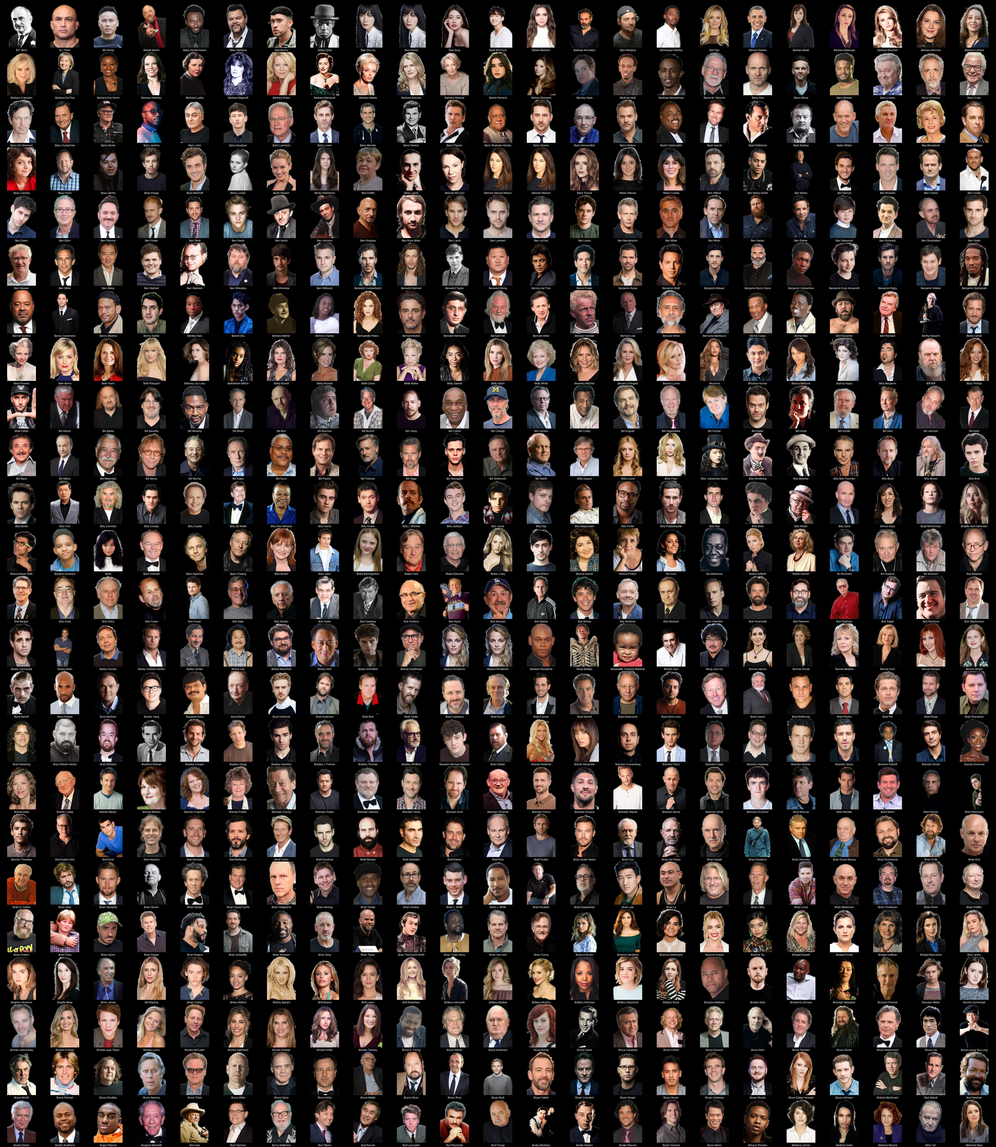
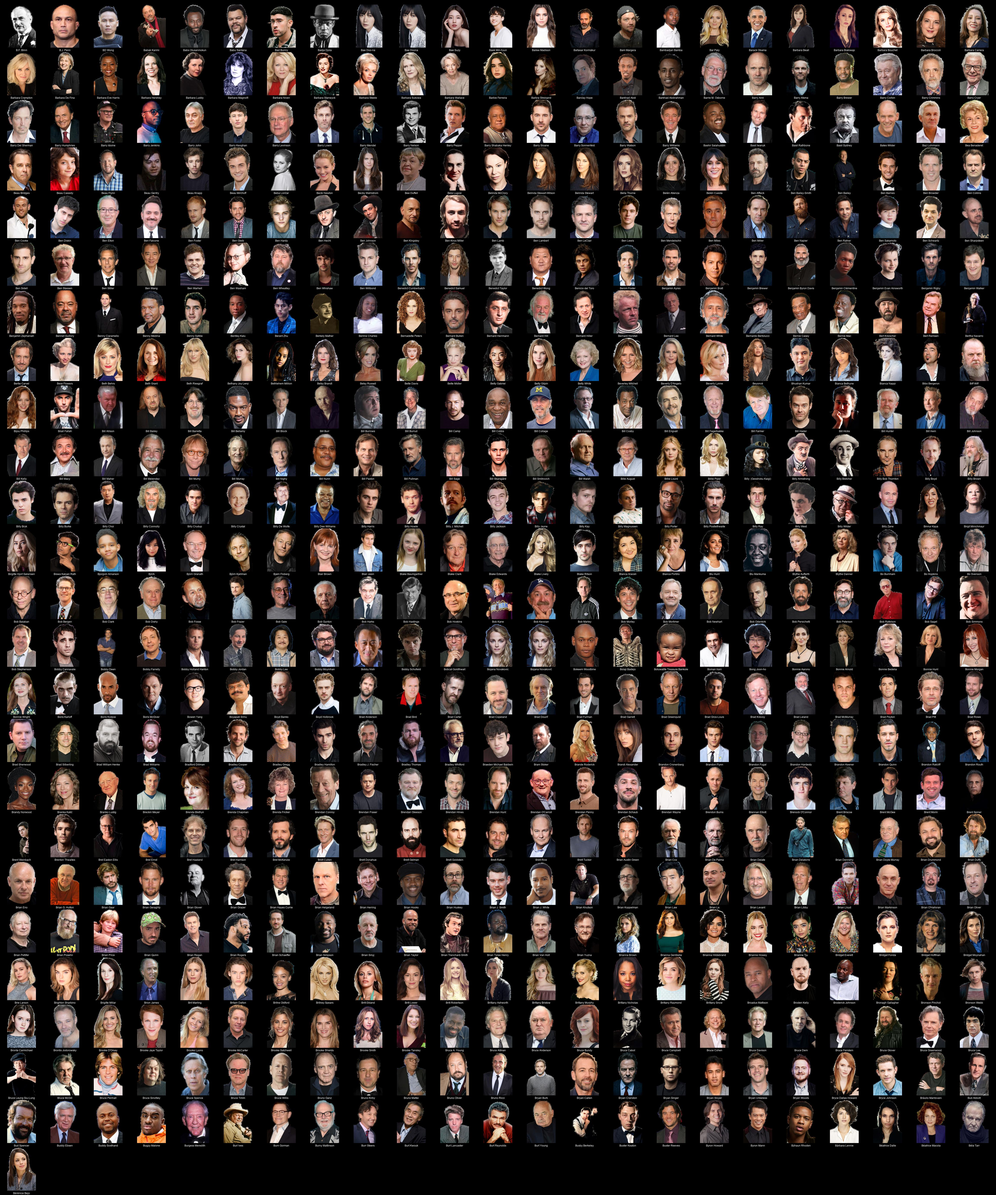
june peeps

diff --git a/M/README.md b/M/README.md
@@ -1,4 +1,4 @@
-# Kometa People Images - Transparent (transparent) - M (1034 Images)
+# Kometa People Images - Transparent (transparent) - M (1037 Images)
 ![Grid](grid.jpg)
 
 * [M'laah Kaur Singh](https://raw.githubusercontent.com/Kometa-Team/People-Images-transparent/master/M/Images/M%27laah%20Kaur%20Singh.png)
@@ -177,6 +177,7 @@
 * [Maria Howell](https://raw.githubusercontent.com/Kometa-Team/People-Images-transparent/master/M/Images/Maria%20Howell.png)
 * [Maria Thayer](https://raw.githubusercontent.com/Kometa-Team/People-Images-transparent/master/M/Images/Maria%20Thayer.png)
 * [Mariah Carey](https://raw.githubusercontent.com/Kometa-Team/People-Images-transparent/master/M/Images/Mariah%20Carey.png)
+* [Marian Dora](https://raw.githubusercontent.com/Kometa-Team/People-Images-transparent/master/M/Images/Marian%20Dora.png)
 * [Marian Lorencik](https://raw.githubusercontent.com/Kometa-Team/People-Images-transparent/master/M/Images/Marian%20Lorencik.png)
 * [Mariana Mazza](https://raw.githubusercontent.com/Kometa-Team/People-Images-transparent/master/M/Images/Mariana%20Mazza.png)
 * [Mariangela Giordano](https://raw.githubusercontent.com/Kometa-Team/People-Images-transparent/master/M/Images/Mariangela%20Giordano.png)
@@ -494,6 +495,7 @@
 * [Maude Apatow](https://raw.githubusercontent.com/Kometa-Team/People-Images-transparent/master/M/Images/Maude%20Apatow.png)
 * [Maulik Pancholy](https://raw.githubusercontent.com/Kometa-Team/People-Images-transparent/master/M/Images/Maulik%20Pancholy.png)
 * [Maura Tierney](https://raw.githubusercontent.com/Kometa-Team/People-Images-transparent/master/M/Images/Maura%20Tierney.png)
+* [Maureen McCormick](https://raw.githubusercontent.com/Kometa-Team/People-Images-transparent/master/M/Images/Maureen%20McCormick.png)
 * [Maureen Van Zandt](https://raw.githubusercontent.com/Kometa-Team/People-Images-transparent/master/M/Images/Maureen%20Van%20Zandt.png)
 * [Maurice Compte](https://raw.githubusercontent.com/Kometa-Team/People-Images-transparent/master/M/Images/Maurice%20Compte.png)
 * [Maurice Jarre](https://raw.githubusercontent.com/Kometa-Team/People-Images-transparent/master/M/Images/Maurice%20Jarre.png)
@@ -886,6 +888,7 @@
 * [Mike Kellin](https://raw.githubusercontent.com/Kometa-Team/People-Images-transparent/master/M/Images/Mike%20Kellin.png)
 * [Mike Leigh](https://raw.githubusercontent.com/Kometa-Team/People-Images-transparent/master/M/Images/Mike%20Leigh.png)
 * [Mike Lockwood](https://raw.githubusercontent.com/Kometa-Team/People-Images-transparent/master/M/Images/Mike%20Lockwood.png)
+* [Mike Lookinland](https://raw.githubusercontent.com/Kometa-Team/People-Images-transparent/master/M/Images/Mike%20Lookinland.png)
 * [Mike Mitchell](https://raw.githubusercontent.com/Kometa-Team/People-Images-transparent/master/M/Images/Mike%20Mitchell.png)
 * [Mike Myers](https://raw.githubusercontent.com/Kometa-Team/People-Images-transparent/master/M/Images/Mike%20Myers.png)
 * [Mike Müller](https://raw.githubusercontent.com/Kometa-Team/People-Images-transparent/master/M/Images/Mike%20M%C3%BCller.png)

diff --git a/C/README.md b/C/README.md
@@ -1,4 +1,4 @@
-# Kometa People Images - Transparent (transparent) - C (704 Images)
+# Kometa People Images - Transparent (transparent) - C (705 Images)
 ![Grid](grid.jpg)
 
 * [C. Robert Cargill](https://raw.githubusercontent.com/Kometa-Team/People-Images-transparent/master/C/Images/C.%20Robert%20Cargill.png)
@@ -690,6 +690,7 @@
 * [Cristela Alonzo](https://raw.githubusercontent.com/Kometa-Team/People-Images-transparent/master/C/Images/Cristela%20Alonzo.png)
 * [Cristen Kauffman](https://raw.githubusercontent.com/Kometa-Team/People-Images-transparent/master/C/Images/Cristen%20Kauffman.png)
 * [Cristian Mungiu](https://raw.githubusercontent.com/Kometa-Team/People-Images-transparent/master/C/Images/Cristian%20Mungiu.png)
+* [Cristie Whiles](https://raw.githubusercontent.com/Kometa-Team/People-Images-transparent/master/C/Images/Cristie%20Whiles.png)
 * [Cristin Milioti](https://raw.githubusercontent.com/Kometa-Team/People-Images-transparent/master/C/Images/Cristin%20Milioti.png)
 * [Cristina Rodlo](https://raw.githubusercontent.com/Kometa-Team/People-Images-transparent/master/C/Images/Cristina%20Rodlo.png)
 * [Cristo Fernández](https://raw.githubusercontent.com/Kometa-Team/People-Images-transparent/master/C/Images/Cristo%20Fern%C3%A1ndez.png)

diff --git a/J/README.md b/J/README.md
@@ -1,4 +1,4 @@
-# Kometa People Images - Transparent (transparent) - J (1349 Images)
+# Kometa People Images - Transparent (transparent) - J (1350 Images)
 ![Grid](grid.jpg)
 
 * [J'Dvonte](https://raw.githubusercontent.com/Kometa-Team/People-Images-transparent/master/J/Images/J%27Dvonte.png)
@@ -521,6 +521,7 @@
 * [Jenson Button](https://raw.githubusercontent.com/Kometa-Team/People-Images-transparent/master/J/Images/Jenson%20Button.png)
 * [Jenson Cheng](https://raw.githubusercontent.com/Kometa-Team/People-Images-transparent/master/J/Images/Jenson%20Cheng.png)
 * [Jeon Eun-jin](https://raw.githubusercontent.com/Kometa-Team/People-Images-transparent/master/J/Images/Jeon%20Eun-jin.png)
+* [Jerami Cruise](https://raw.githubusercontent.com/Kometa-Team/People-Images-transparent/master/J/Images/Jerami%20Cruise.png)
 * [Jeremiah Bitsui](https://raw.githubusercontent.com/Kometa-Team/People-Images-transparent/master/J/Images/Jeremiah%20Bitsui.png)
 * [Jeremy Allen White](https://raw.githubusercontent.com/Kometa-Team/People-Images-transparent/master/J/Images/Jeremy%20Allen%20White.png)
 * [Jeremy Bulloch](https://raw.githubusercontent.com/Kometa-Team/People-Images-transparent/master/J/Images/Jeremy%20Bulloch.png)

diff --git a/B/README.md b/B/README.md
@@ -1,4 +1,4 @@
-# Kometa People Images - Transparent (transparent) - B (552 Images)
+# Kometa People Images - Transparent (transparent) - B (553 Images)
 ![Grid](grid.jpg)
 
 * [B.F. Blinn](https://raw.githubusercontent.com/Kometa-Team/People-Images-transparent/master/B/Images/B.F.%20Blinn.png)
@@ -62,6 +62,7 @@
 * [Barry Sloane](https://raw.githubusercontent.com/Kometa-Team/People-Images-transparent/master/B/Images/Barry%20Sloane.png)
 * [Barry Sonnenfeld](https://raw.githubusercontent.com/Kometa-Team/People-Images-transparent/master/B/Images/Barry%20Sonnenfeld.png)
 * [Barry Watson](https://raw.githubusercontent.com/Kometa-Team/People-Images-transparent/master/B/Images/Barry%20Watson.png)
+* [Barry Williams](https://raw.githubusercontent.com/Kometa-Team/People-Images-transparent/master/B/Images/Barry%20Williams.png)
 * [Bashir Salahuddin](https://raw.githubusercontent.com/Kometa-Team/People-Images-transparent/master/B/Images/Bashir%20Salahuddin.png)
 * [Basil Iwanyk](https://raw.githubusercontent.com/Kometa-Team/People-Images-transparent/master/B/Images/Basil%20Iwanyk.png)
 * [Basil Rathbone](https://raw.githubusercontent.com/Kometa-Team/People-Images-transparent/master/B/Images/Basil%20Rathbone.png)
